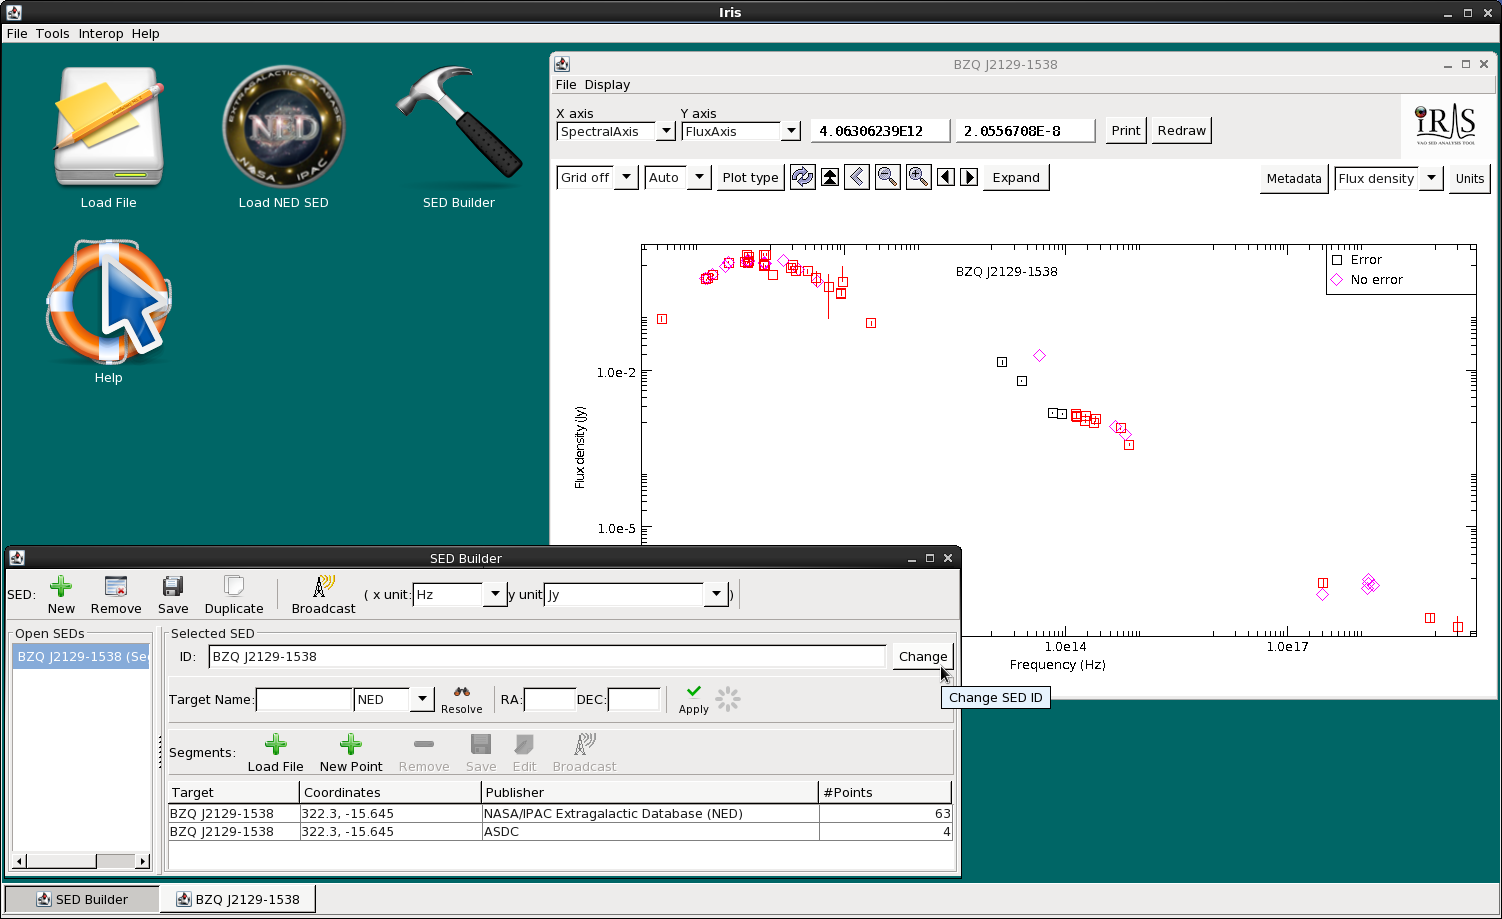
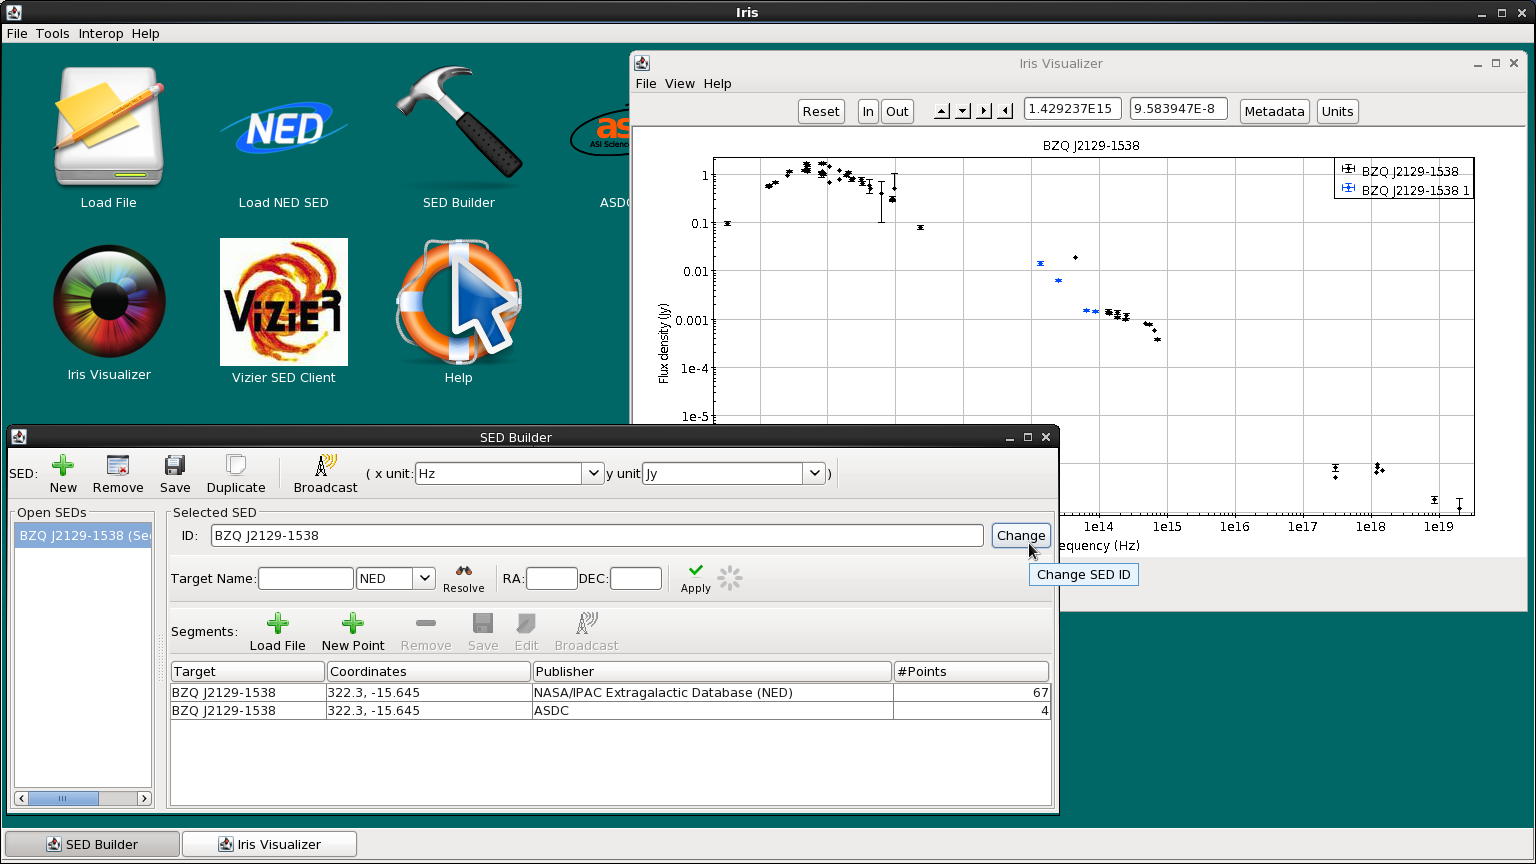
Update analysis thread images. Fix typos and image references in text.

diff --git a/markdown/threads/analysis/index.md b/markdown/threads/analysis/index.md
@@ -14,7 +14,7 @@ SED to file. We string together the components of the [Iris How-to
 Guide][guide] in order to integrate the individual features
 and capabilities of Iris into one, big picture.
 
-**Last Update:** 07 May 2015 - Updated for Iris 2.1 beta.
+**Last Update:** 21 Feb 2017 - Updated for Iris 3.0.
 
 ------------------------------------------------------------------------
 
@@ -68,7 +68,7 @@ $ source activate iris
 $ iris
 ```
 
-![Iris Desktop screenshot](imgs/iris_desktop_small.jpg)
+![Iris Desktop screenshot](../entry/imgs/iris_desktop_small.png)
 
 We can choose to import SED data directly from NED via either the Get an
 SED from the NED Service option in the Iris *Load File* or *Load NED
@@ -81,7 +81,7 @@ enter the identifier "bzqj2129-1538" in the Target Name field, and then
 click Import NED SED to automatically display the SED available for this
 object in the Iris Visualizer.
 
-[![NED SED importer screenshot](./imgs/import_ned_sed_v2_small.jpg)](./imgs/import_ned_sed_v2.png)   [![BZQJ2129-1538](./imgs/bzqj_first_uploaded_square_small.jpg)](./imgs/bzqj_first_uploaded_square.png)
+[![NED SED importer screenshot](./imgs/import_ned_sed_v2_small.jpg)](./imgs/import_ned_sed_v2.png)   [![BZQJ2129-1538](./imgs/bzqj_first_uploaded_small.png)](./imgs/bzqj_first_uploaded.png)
 
 |   |
 |--:|
@@ -106,9 +106,9 @@ Guide to learn how to use the SED Builder to convert data for display in
 Iris.
 
 Looking at the NED SED of BZQ J2129-1538, we notice a large gap of data
-points in the infrared regime (from around 10^11^ to 10^14^ Hz). We will
+points in the infrared regime (from around 10^11 to 10^14 Hz). We will
 fill in a part of this gap using WISE data of this object in ASCII
-format on file. Download `WISE.bzqj2129-1538.dat` to get the photometric
+format on file. Download [`WISE.bzqj2129-1538.dat`](./WISE.bzqj2129-1538.dat) to get the photometric
 data. The first column of the file contains the wavelength in Angstroms,
 and the second and third contain the flux density and corresponding
 error values, respectively, in ergs/s/cm2/Angstrom.
@@ -121,7 +121,7 @@ click "Location on Disk", browse for `WISE.bzqj2129-1538.dat`, select
 Spectrum/SED".
 
 [![Load SED from file
-screenshot](./imgs/load_ascii_data_v2_small.jpg)](./imgs/load_ascii_data_v2.png)
+screenshot](./imgs/load_ascii_data_small.png)](./imgs/load_ascii_data.png)
 
 |   |
 |--:|
@@ -151,8 +151,8 @@ and Y axis error arrays. (The other, optional fields may also be filled
 in; refer to the ["Building and Managing SEDs"][importer] section of
 the [Iris How-to Guide][guide] for details and instruction.)
 
-[![Conversion setup
-screenshot](./imgs/convert_ascii_data_v2_window.png)](./imgs/convert_ascii_data_v2.png)
+![Conversion setup
+screenshot](./imgs/convert_ascii_data_v2_window.png)
 
 Here, we have 'told' Iris that the first column in our input data file
 corresponds to the spectral coordinate axis and contains wavelength
@@ -174,10 +174,10 @@ Now, we click "Add Segment to SED", and see that the WISE data is
 automatically co-plotted with the NED SED, and that the WISE segment
 (segment with 4 data points) has been added to the "Segments" list in
 the SED Builder window. The two segments are plotted in different colors
-(WISE is black, NED is red) to help us visualize the separate segments.
+(WISE is blue, NED is black) to help us visualize the separate segments.
 
 [![Coplot
-screenshot](./imgs/bzqj_to_segments_coplotted_v2_small.jpg)](./imgs/bzqj_to_segments_coplotted_v2.png)
+screenshot](./imgs/bzqj_to_segments_coplotted_small.png)](./imgs/bzqj_to_segments_coplotted.png)
 
 We can also save the WISE data segment in VOTable or FITS format by
 highlighting the segment in the SED Builder window, and clicking the
@@ -233,7 +233,7 @@ meaningful titles can be helpful when analyzing numerous SEDs in an Iris
 session.
 
 [![change-SED-name
-screenshot](./imgs/change_sed_name_small.jpg)](./imgs/change_sed_name.png)
+screenshot](./imgs/change_sed_name_small.png)](./imgs/change_sed_name.png)
 
 It is important to note that when multiple SED data segments are plotted
 together, the spectral data from each segment is not combined, coadded,
@@ -256,11 +256,11 @@ details).
 
 Clicking the "Metadata" button in the upper-right corner of the Iris
 display opens a window containing three separate tabs of information,
-the first displaying the metadata associated with each SED data point in
-the plot, the second showing data about each SED segment, and the third
+the first displaying data about each SED segment, the second showing the 
+metadata associated with each SED data point in the plot, and the third
 listing independent and dependent data arrays defining the plot.
 
-![Iris GUI snapshot](./imgs/metadata1_small.jpg)   ![Iris GUI snapshot](./imgs/metadata2_small.jpg)
+[![Iris GUI snapshot](./imgs/metadata1_small.png)](./imgs/metadata1.png)   [![Iris GUI snapshot](./imgs/metadata2_small.png)](./imgs/metadata2.png)
 
 When available, the Metadata tab includes many useful pieces of
 information about the data points currently displayed. When a SED is
@@ -298,12 +298,12 @@ points selected in the Metadata window will disappear.
 
 Let's remove all photometric points without uncertainties. Here, we have
 masked photometric points without any reported errors using the Boolean
-filter in the Data tab. We type `$4 &gt; 0` into the filter (if a cell
+filter in the Data tab. We type `$4 > 0` into the filter (if a cell
 should have a numeric value but is left empty, the cell will be selected
 in this way). Then, click "Invert Selection", and finally click "Mask Points." 
 In the resulting figure below, all points without uncertainties disappear.
 
-![Iris GUI snapshot](./imgs/boolean_filter_viewer_small.jpg)
+[![Iris GUI snapshot](./imgs/boolean_filter_viewer_small.png)](./imgs/boolean_filter_viewer.png)
 
 Selected data points may even be extracted into a whole new SED by
 clicking "Extract" after making the desired row selections in the
@@ -318,12 +318,9 @@ uncertainties. To do this, you can either
   * clear the masks with "Clear All", reselect the points with the Filter Expression `$4 > 0`, then click "Extract", or
   * click the "Masked" column header to sort by masked points, highlight all the unmasked points in the table, then click "Extract"
 
-![Iris GUI snapshot](./imgs/filter_sed_v2_small.jpg)
+[![Iris GUI snapshot](./imgs/filter_sed_small.png)](./imgs/filter_sed.png)
 
-Note that the colors switched between the WISE and NED
-data: WISE data is now red, and the NED data is black (this is because
-the SED segments are arranged alphabetically after extracting a new SED,
-so the colors, which translate lexicographically, also change).
+We'll change the SED ID of the "FilterSed" to "BZQ J2129-1538 Filtered" before moving on.
 
 |   |
 |--:|
@@ -345,7 +342,7 @@ blueshifted SED will automatically display in the Iris Visualizer.
 *Note that the indivual SED segments are combined into one, aggregate
 SED, and that the NED metadata is not retained.*
 
-![Redshift and Interpolate screenshot](./imgs/shift_sed_v2.png)
+![Redshift and Interpolate screenshot](./imgs/shift_sed.png)
 
 We have two very similar (and ambiguous) names for the filtered and
 filtered+shifted SEDs. We can change their names from the SED Builder
@@ -359,7 +356,7 @@ Visualizer, select "BZQ J2129-1538" and "BZQ J2129-1538 FilterSed
 (z=0)", and click "Co-plot". We see that the object is brighter, and the
 whole spectrum shifted to higher frequencies, as expected.
 
-![Coplot screenshot](./imgs/shifted_sed_v2_plotted_small.jpg)
+[![Coplot screenshot](./imgs/shifted_sed_plotted_small.png)](./imgs/shifted_sed_plotted.png)
 
 |   |
 |--:|
@@ -373,11 +370,11 @@ The axes units automatically displayed in the Iris Visualizer might not
 be the units of choice. We can change the units on the upper-right
 corner of the Iris Visualizer with the "Units" button. You may choose the desired X- and Y-axis units to display the SEDs in. Note that the rows in the Metadata Browser "Data" tab will update to reflect the plot units.
 
-In our case, we want to plot in `&#955;*f(&#955;)` vs `&#955;` for reasons that will be
+In our case, we want to plot in *&#955; f(&#955;)* vs *&#955;* for reasons that will be
 clear when we start to fit the data (see the next section). On clicking "Units", we choose "Angstroms" from the left column and "photon/s/cm2/Angstrom" from the right. for the spectral axis and flux axis, respectively.
 
 [![change-units
-screenshot](./imgs/sed_change_units_small.jpg)](./imgs/sed_change_units.png)
+screenshot](./imgs/sed_change_units_small.png)](./imgs/sed_change_units.png)
 
 |   |
 |--:|
@@ -396,7 +393,7 @@ quantities which we will use in our analysis of BZQ J2129-1538.
 We initiate the fitting process by selecting the "Fitting Tool" icon on
 the Iris desktop.
 
-![Iris GUI snapshot](./imgs/initiate_fitting_v2_small.jpg)
+![Iris GUI snapshot](./imgs/initiate_fitting.png)
 
 The Iris Fitting Tool allows you to define a single or multi-component
 model expression, set starting model parameter values and ranges, and
@@ -440,7 +437,7 @@ We will start by fitting the synchrotron emission peak, modeled by the log-parab
 
 <!--freeze the parameters for all model components. Do this by right clicking on "Model Components" in the list of added models, then clicking "Freeze all parameters". Then since we're going to fit `m2` first, right-click on the [logparabola][logparabola] `m2` and click "Thaw all parameters".-->
 
-![Preset model components](./imgs/preset_components.png)   ![Iris GUI snapshot](./imgs/model_components_v2_new.png)
+[![Iris GUI snapshot](./imgs/model_components_small.png)](./imgs/model_components.png)
 
 |   |
 |--:|
@@ -460,11 +457,14 @@ Let's edit the initial values for `m2`. Toggle model component `m2`. There are 4
 
     f(x) = A * (x/x_ref)^[-gamma - beta*log10(x/x_ref)]
 
-`refer`, the wavelength `x_ref` at which the parabola peaks, `c1`, the index `gamma`, `c2`, the curvature `beta` of the parabola , and `ampl`, the amplitude `A` of the model at wavelength `refer`. 
+  * `refer`, the wavelength `x_ref` at which the parabola peaks, 
+  * `c1`, the index `gamma`, 
+  * `c2`, the curvature `beta` of the parabola , and 
+  * `ampl`, the amplitude `A` of the model at wavelength `refer`. 
 
 The log parabola for radio synchrotron emission peaks at IR wavelengths. Therefore, we'll edit the `refer` position for `m2` to 500,000 Angstroms, and leave the parameter fixed.
 
-![Iris GUI snapshot](./imgs/model_expression+params_v2.png)
+[![Iris GUI snapshot](./imgs/model_expression+params_small.png)](./imgs/model_expression+params.png)
 
 For our analysis, we choose to allow all model parameters to vary in the
 fit except the reference position of the log-parabolas and the accretion
@@ -481,7 +481,7 @@ off the sides of the plot area, click "Refresh" to re-center the plot.
 Toggle "[accretiondisk][accretiondisk].c1", select `refer` and enter 1500 as the initial accretion disk value. Then toggle "[logparabola][logparabola].c3", again select `refer`, and enter 1e-3.
 
 [![Iris GUI
-snapshot](./imgs/edit_params_v2_new_small.jpg)](./imgs/edit_params_v2_new.png)
+snapshot](./imgs/edit_params_small.png)](./imgs/edit_params.png)
 
 |   |
 |--:|
@@ -495,7 +495,11 @@ By default, Iris will use the entire spectral range for fitting the models. As w
 
 We're fitting the synchrotron emission [logparabola][logparabola], `m2`, first. Open fit Fitting Ranges frame by clicking "Add Ranges..." on the right-most side of the Fitting Tool. This opens up a list of currently defined fitting ranges for the selected SED. 
 
+[![Fitting Ranges window](./imgs/fitting_ranges-add_from_plot_small.png)](./imgs/fitting_ranges-add_from_plot.png)
+
 We could add specific start and end points for the range by using the "Start" and "End" fields in the frame. Or, we can click "Add From Plot", then click on the start and end points on the plot itself. This will set a new fitting range. The start and end points will be displayed in the Fitting Ranges list.
+
+[![Fitting Ranges set](./imgs/fitting_ranges-set_small.png)](./imgs/fitting_ranges-set.png)
 
 Note that multiple fitting ranges can be set at a time (useful for fitting spectral lines). Iris will only fit points that fall inside these ranges.
 
@@ -510,7 +514,7 @@ Note that multiple fitting ranges can be set at a time (useful for fitting spect
 Our final step in the preparation for fitting involves choosing a fit
 statistic and optimization method appropriate for our analysis. These options are shown on the right-most side of the Fitting Tool as drop-down menus.
 
-![Iris GUI snapshot](./imgs/statistics_optimization_v2.png)
+[![Iris GUI snapshot](./imgs/statistics-optimization_small.png)](./imgs/statistics-optimization.png)
 
 We see that the fit can be done with a least-squares statistic, or
 chi-squared (with various methods for estimating the variances used by
@@ -529,12 +533,11 @@ optimization.
 ### <a name="fit"></a> Fitting
 
 We are now ready to fit the data using our model expression, initial
-model parameters values, and chosen fit statistic and method. Selecting
-"Start" in the window displaying the fit statistics, initiates the
-fitting process.
+model parameters values, and chosen fit statistic and method. Clicking the 
+"Fit" button beneath the "Add Ranges..." button initiates the fitting process.
 
 [![Iris GUI
-snapshot](./imgs/bzqj_logpar_c1_fit_v2_small.jpg)](./imgs/bzqj_logpar_c1_fit_v2.png)
+snapshot](./imgs/bzqj_logpar_m2_fit_small.png)](./imgs/bzqj_logpar_m2_fit.png)
 
 When the fit completes, we see the fitted model overlaid on the SED data
 in the Iris main display and the
@@ -545,11 +548,15 @@ reduced statistic.
 
 You can also view the fit residuals from the Visualizer by clicking "Show Residuals" at the bottom. You can switch between showing the residuals in linear space (Residuals) and in dex (Ratios).
 
+[![show fit residuals](./imgs/bzqj_logpar_m2-residuals_small.png)](./imgs/bzqj_logpar_m2-residuals.png)
+
 We still have two more components to add to our model. Now, let's add
 the accretion disk model, `m1` to the Model Expression field. The model should now read `m2 + m1`. 
 
 First, we freeze `m2` before refitting the new model expression. Right-click the
 log-parabola model in the Model Components list and select "Freeze All Parameters". 
+
+[![freeze m2 model parameters](./imgs/freeze-model_m2_small.png)](./imgs/freeze-model_m2_small.png)
 
 Open the Fitting Ranges window (click on "Add Ranges..."), "Clear All" the fitting ranges, and then set the fitting range to include only the UV-to-near-IR data.
 
@@ -558,22 +565,24 @@ This time, the data takes a little longer to fit; this is because our
 model is more complex.
 
 [![two component
-fit](./imgs/bzqj_c1+c2_fit_v2_small.jpg)](./imgs/bzqj_c1+c2_fit_v2.png)
+fit](./imgs/bzqj_m1+m2_fit_small.png)](./imgs/bzqj_m1+m2_fit.png)
 
 Now we've got the optical/UV range fit. Let's add our last component, the inverse-Compton log-parabola `m3`, to the model expression. Again, we freeze the accretion disk parameters, reset the fitting range to only include the high-energy data, and choose Monte-Carlo + chi-squared to fit the rest of the data.
 
 [![three component
-fit](./imgs/bzqj_c1+c2+c3_small.jpg)](./imgs/bzqj_c1+c2_c3.png)
+fit](./imgs/bzqj_m1+m2+m3_fit_small.png)](./imgs/bzqj_m1+m2+m3_fit.png)
 
-Now that we have decent parameter values, we can unfreeze all the parameters (except for the logparabola's `refer` positions and the accretion disk's `normal` parameter which must remain fixed), and fit again.
+Now that we have decent parameter values, we can unfreeze all the parameters (except for the logparabola's `refer` positions and the accretion disk's `normal` parameter which must remain fixed), switch the statistic to "NelderMeadSimplex" (since Monte Carlo is time consuming with so many free parameters), and fit again.
 
-We can calculate the confidence limits on the thawed parameters.
+We can calculate the **confidence limits** on the thawed parameters.
 Switching over to the Confidence tab in the window displaying fit
-statistics, we enter "1.6" in the "sigma" field and click "Start" to
+statistics, we enter "1.6" in the "Confidence Interval" field and click "Compute" to
 calculate and display the 90% confidence limits on the best-fit model
 parameter values.
 
-![confidence limits](./imgs/confidence_limits_logparc3.png)
+**NOTE:** This calculation may take awhile (1-2 minutes) because of the number of free parameters.
+
+![confidence limits](./imgs/confidence_limits.png)
 
 Not completely satisfied with this initial fit, we adjust the model
 parameter values to better match the data, experiment with different
@@ -638,45 +647,55 @@ The current state of the fitting session can be saved to file at any time. There
 
 We save the model to JSON by selecting "File --> Save Json..." from the fitting tool.
 
-![Iris GUI snapshot](./imgs/save_model_fits_v2.png)
+![Iris GUI snapshot](./imgs/save_model_fits.png)
 
 Now let's save the model to a basic text format to show our colleagues the fit results. Choose "File --> Save Text...". Here is an example of the output from the BZQ J2129-1538 fit:
 
 ``` {.highlight}
-File: BZQ J2129-1538 FilterSed (z=0)
+Iris Fitting Tool - Fit Summary
+SED ID: BZQ J2129-1538 Filtered_0.0 (Segments: 1)
 
-Thu Jul 25 14:48:33 EDT 2013  Iris 2
+Model Expression: m2 + m1 + m3
+Components:
+	accretiondisk.m1
+		                    m1.ref =  1.50000E+03 Frozen
+		                   m1.beta =  1.06501E+00
+		                   m1.ampl =  4.81398E-04
+		                   m1.norm =  2.00000E+04 Frozen
+	logparabola.m2
+		                    m2.ref =  5.00000E+05 Frozen
+		                     m2.c1 =  2.67806E-11
+		                     m2.c2 =  2.17572E-01
+		                   m2.ampl =  7.89892E-04
+	logparabola.m3
+		                    m3.ref =  1.00000E-03 Frozen
+		                     m3.c1 =  3.85780E-01
+		                     m3.c2 =  2.74007E-02
+		                   m3.ampl =  9.78416E-02
 
-TARGNAME: BZQ J2129-1538 FilterSed (z=0)
+Fit Results:
+		       Final Fit Statistic =  1.33888E+05
+		         Reduced Statistic =  3.34720E+03
+		     Probability (Q-value) =  0.00000E+00
+		        Degrees of Freedom = 40
+		               Data Points = 48
+		      Function Evaluations = 1738
 
-Model Expresion:
-        c2+c1+c3
+		                 Optimizer = NelderMeadSimplex
+		 Statistic (Cost function) = Chi2
 
-Fit parameters:
-        Final fit statistic:      62198.192077727974
-        Reduced statistic:        1517.0290750665361
-        Probability [Q-value]:    0.0
-        Degrees of freedom:       41.0
-        Data points:              44
-        Last function evaluation: 2507
+Confidence Limits at 1.60 sigma (89.04%):
+                   m2.c1: (         NAN,  4.21871E-05)
+                   m2.c2: (-2.55196E-04,  1.99122E-04)
+                 m2.ampl: (-2.65624E-06,  2.45132E-06)
+                 m1.beta: (-3.98120E-03,  4.33953E-03)
+                 m1.ampl: (-3.51564E-06,  3.99732E-06)
+                   m3.c1: (-6.30963E-02,  5.13178E-02)
+                   m3.c2: (-6.07694E-03,  7.41412E-03)
+                 m3.ampl: (-2.07911E-02,  2.41469E-02)
 
-Component 1:    accretiondisk.c1 
-   F   ref  = 1500.0         angstroms                                    
-   F   beta = 1.91985                                                     
-   F   ampl = 3.7458314E-5                                                
-   F   norm = 20000.0                                                     
-
-Component 2:    logparabola.c2 
-   F   ref  = 500000.0                                                    
-   F   c1   = 0.2622442                                                   
-   F   c2   = 0.161158                                                    
-   F   ampl = 0.0012604317                                                
-
-Component 3:    logparabola.c3 
-   F   ref  = 0.001                                                       
-       c1   = -0.24864592 (0.28186354  -0.609429)                         
-       c2   = 0.15012781  (0.11571395  -0.05239018)                       
-       ampl = 0.017197948 (0.021747038 NaN)                               
+User Models:
+                              
 ```
 
 And that's the basics of using Iris to build, view, edit, and fit an SED. 
